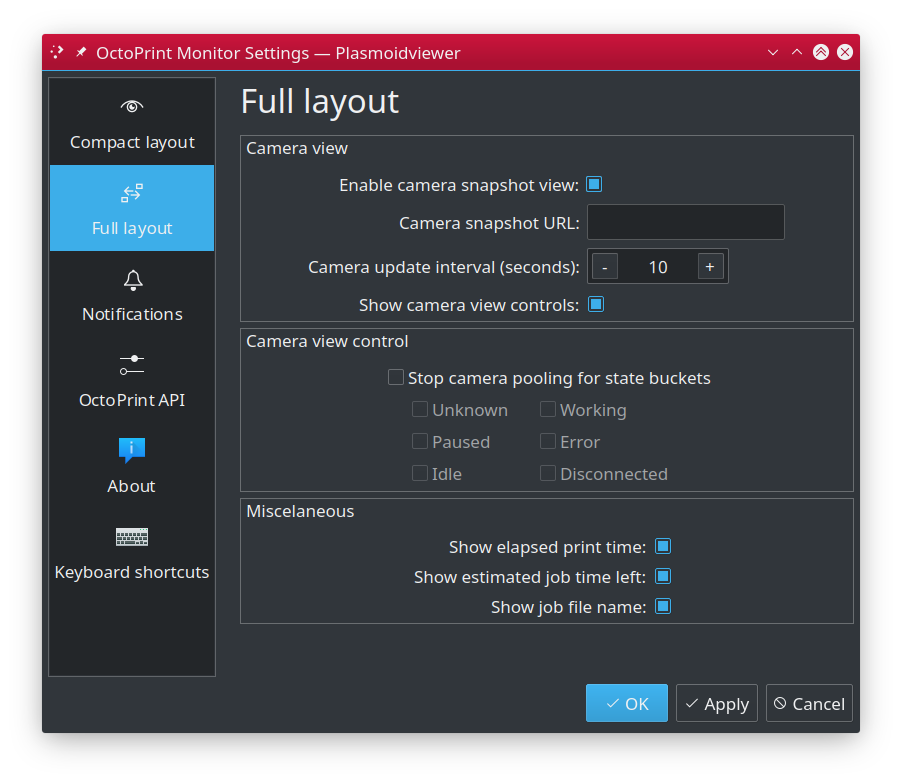
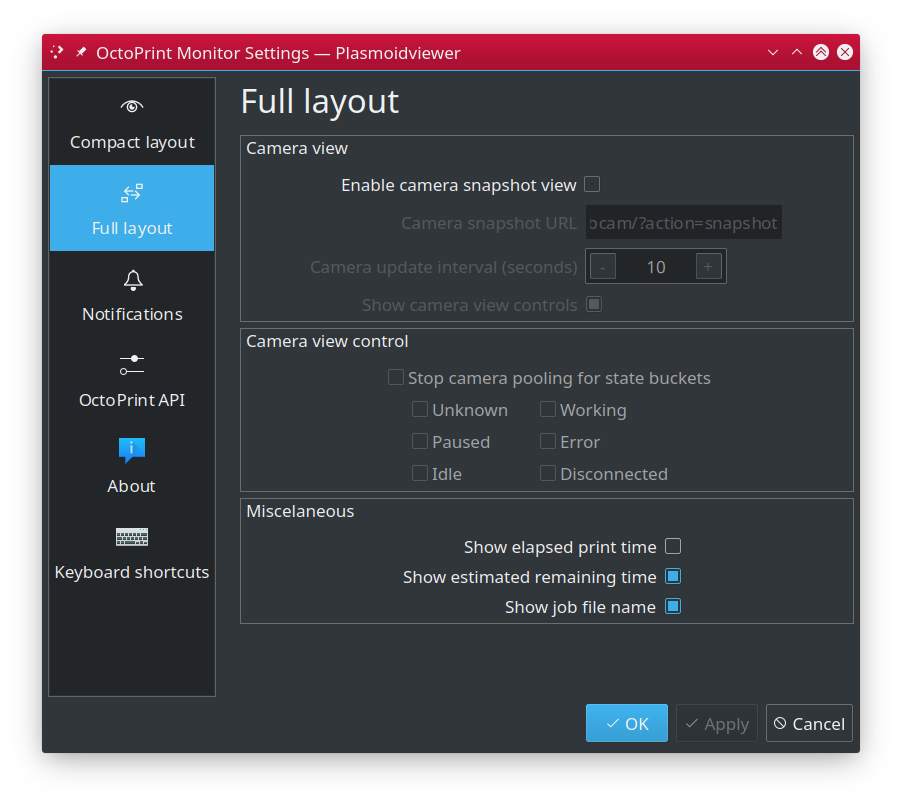
Compact widget can now display elapsed and remaining print time.

diff --git a/src/contents/ui/configFullRepresentation.qml b/src/contents/ui/configFullRepresentation.qml
@@ -45,14 +45,14 @@ ColumnLayout {
 
             PlasmaComponents.CheckBox {
                 id: cameraViewEnabled
-                Kirigami.FormData.label: i18n("Enable camera snapshot view") + ':'
+                Kirigami.FormData.label: i18n("Enable camera snapshot view")
             }
 
             TextField {
                 id: cameraViewSnapshotUrl
                 enabled: cfg_cameraViewEnabled
                 validator: RegExpValidator { regExp: /http(s)?:.{5,}/ }
-                Kirigami.FormData.label: i18n("Camera snapshot URL") + ':'
+                Kirigami.FormData.label: i18n("Camera snapshot URL")
             }
 
             PlasmaComponents.SpinBox {
@@ -63,13 +63,13 @@ ColumnLayout {
                 to: 3600
                 stepSize: 5
 
-                Kirigami.FormData.label: i18n("Camera update interval (seconds)") + ':'
+                Kirigami.FormData.label: i18n("Camera update interval (seconds)")
             }
 
             CheckBox {
                 id: cameraViewControlsEnabled
                 enabled: cfg_cameraViewEnabled
-                Kirigami.FormData.label: i18n("Show camera view controls") + ':'
+                Kirigami.FormData.label: i18n("Show camera view controls")
             }
 
         }
@@ -145,15 +145,15 @@ ColumnLayout {
 
             CheckBox {
                 id: showJobPrintTime
-                Kirigami.FormData.label: i18n("Show elapsed print time") + ':'
+                Kirigami.FormData.label: i18n("Show elapsed print time")
             }
             CheckBox {
                 id: showJobTimeLeft
-                Kirigami.FormData.label: i18n("Show estimated job time left") + ':'
+                Kirigami.FormData.label: i18n("Show estimated remaining time")
             }
             CheckBox {
                 id: showJobFileName
-                Kirigami.FormData.label: i18n("Show job file name") + ':'
+                Kirigami.FormData.label: i18n("Show job file name")
             }
         }
     }

diff --git a/src/contents/ui/configCompactRepresentation.qml b/src/contents/ui/configCompactRepresentation.qml
@@ -24,7 +24,10 @@ ColumnLayout {
 
     property alias cfg_compactLayoutCustomIconSizeEnabled: compactLayoutCustomIconSizeEnabled.checked
 	property alias cfg_compactLayoutCustomIconSize:   compactLayoutCustomIconSize.value
+
 	property alias cfg_compactLayoutVerticalProgressBarEnabled: compactLayoutVerticalProgressBarEnabled.checked
+	property alias cfg_compactLayoutShowPrintTime: compactLayoutShowPrintTime
+	property alias cfg_compactLayoutShowPrintTimeLeft: compactLayoutShowPrintTimeLeft
 
 	property alias cfg_compactLayoutStateTextLineEnabled: compactLayoutStateTextLineEnabled.checked
 
@@ -160,6 +163,15 @@ ColumnLayout {
             PlasmaComponents.CheckBox {
                 id: compactLayoutVerticalProgressBarEnabled
                 text: i18n("Show print job progress bar")
+            }
+
+            PlasmaComponents.CheckBox {
+                id: compactLayoutShowPrintTime
+                text: i18n("Show print elapsed time")
+            }
+            PlasmaComponents.CheckBox {
+                id: compactLayoutShowPrintTimeLeft
+                text: i18n("Show estimated remaining time")
             }
         }
     }

diff --git a/src/contents/ui/FullRepresentation.qml b/src/contents/ui/FullRepresentation.qml
@@ -148,14 +148,14 @@ GridLayout {
                 PlasmaComponents.Label {
                     fontSizeMode: Text.Fit
                     minimumPixelSize: 8
-                    text: i18n('Print time') + `: ${main.jobPrintTime}`
+                    text: i18n('Elapsed') + `: ${main.jobPrintTime}`
                     font.pixelSize: Qt.application.font.pixelSize * 0.8
                     visible: main.jobInProgress && plasmoid.configuration.showJobPrintTime && main.jobPrintTime != ''
                 }
                 PlasmaComponents.Label {
                     fontSizeMode: Text.Fit
                     minimumPixelSize: 8
-                    text: i18n('ETA') + `: ${main.jobPrintTimeLeft}`
+                    text: i18n('Left') + `: ${main.jobPrintTimeLeft}`
                     font.pixelSize: Qt.application.font.pixelSize * 0.8
                     visible: main.jobInProgress && plasmoid.configuration.showJobTimeLeft && main.jobPrintTimeLeft != ''
                 }

diff --git a/src/contents/ui/CompactRepresentation.qml b/src/contents/ui/CompactRepresentation.qml
@@ -148,5 +148,23 @@ GridLayout {
         value: main.jobCompletion/100
     }
 
+    PlasmaComponents.Label {
+        fontSizeMode: Text.Fit
+        minimumPixelSize: 8
+        Layout.alignment: Qt.AlignHCenter
+        font.capitalization: Font.Capitalize
+        text: i18n('Elapsed') + ': ' + main.jobPrintTime
+        visible: main.jobInProgress && plasmoid.configuration.compactLayoutShowPrintTime && main.jobPrintTime != ''
+    }
+
+    PlasmaComponents.Label {
+        fontSizeMode: Text.Fit
+        minimumPixelSize: 8
+        Layout.alignment: Qt.AlignHCenter
+        font.capitalization: Font.Capitalize
+        text: i18n('Left') + ': ' + main.jobPrintTimeLeft
+        visible: main.jobInProgress && plasmoid.configuration.compactLayoutShowPrintTimeLeft && main.jobPrintTimeLeft != ''
+    }
+
     // ------------------------------------------------------------------------------------------------------------------------
 }

diff --git a/docs/setup.md b/docs/setup.md
@@ -83,6 +83,13 @@ used when you put it into your vertical or horizontal panel.
 - **Job progress**
   - **Show print job progress bar** - if enabled, small progress bar will be shown as
     soon as print job is started.
+  - **Show elapsed print time** - contrils visibiliy of elapsed print time. If there's
+    no print job in progress, this info is hidden.
+  - **Show estimated remaining time** - displays **estimated** time needed to complete
+    ongoing print. This information comes from OctoPrint and, unfortunatelly is often
+    not very accurate, so to speak. You may want to disable it and using percentage
+    or progress bar instead. If there's no print job in progress, this info is hidden.
+
 
 > **HINT:** with default settings, active print job is presented as "Printing 12.1%",
 > which is somehow redundant as percentage is only shown for active print job. You may
@@ -121,7 +128,7 @@ Full layout is being used when `OctoPrint Monitor` is used as regular desktop wi
  - **Misclaneous**
    - **Show elapsed print time** - contrils visibiliy of elapsed print time. If there's
      no print job in progress, this info is hidden.
-   - **Show estimated job time left** - displays **estimated** time needed to complete
+   - **Show estimated remaining time** - displays **estimated** time needed to complete
      ongoing print. This information comes from OctoPrint and, unfortunatelly is often
      not very accurate, so to speak. You may want to disable it and using percentage
      or progress bar instead. If there's no print job in progress, this info is hidden.

diff --git a/CHANGES.md b/CHANGES.md
@@ -10,6 +10,7 @@
    * Reworked desktop notification content to contain more information.
    * Desktop notification timeouts can now be configured.
    * Compact widget's tooltip now shows print and remaining time.
+   * Compact widget can now display elapsed and remaining print time.
 
 * v1.1.1 (2020-12-03)
    * Improved docs
@@ -21,7 +22,7 @@
    * Added `Configuration` state indicating lack of widget required configuration.
    * Improved API response handling.
    * Scaled state icons down to reduce plasmoid size.
-   * Corected layout of "Full layout" config panel.
+   * Corrected layout of "Full layout" config panel.
 
 * v1.0.0 (2020-12-01)
    * Initial public release
